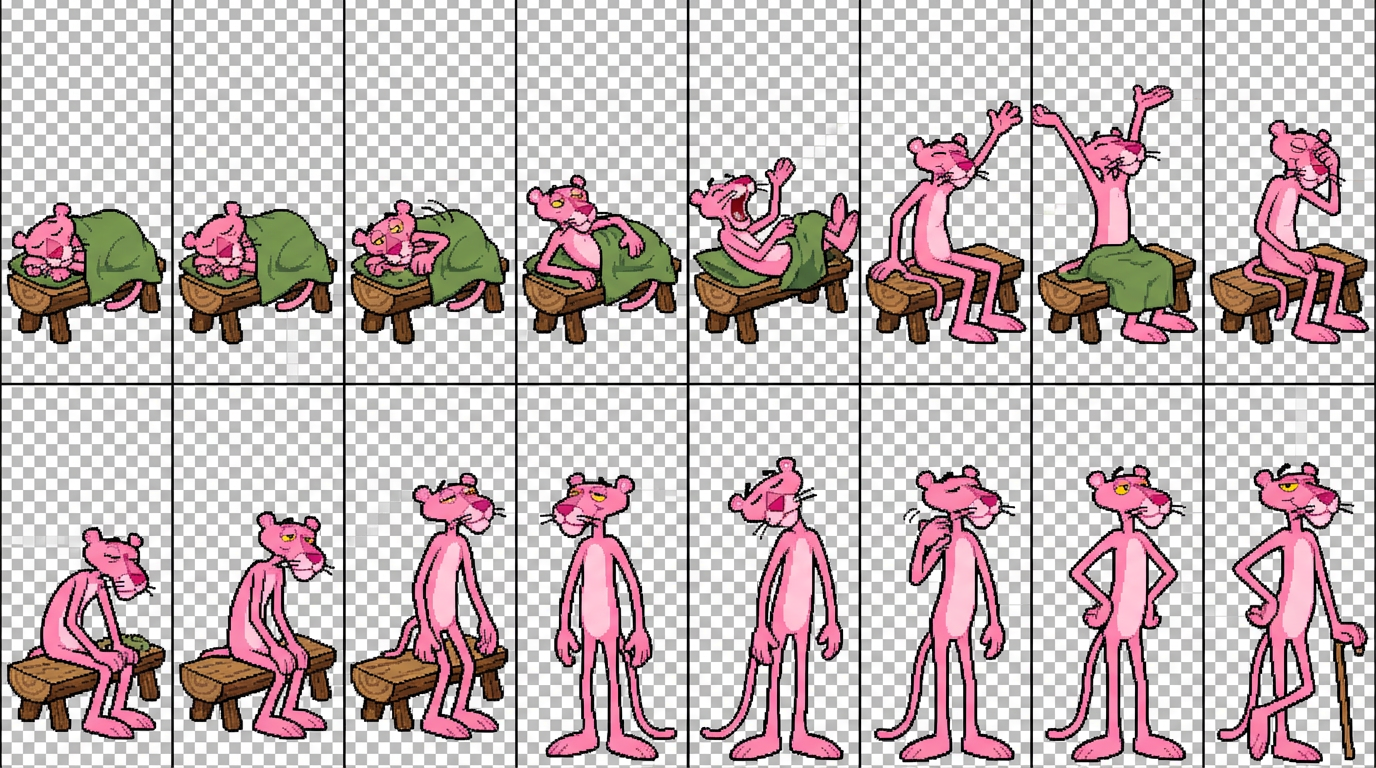
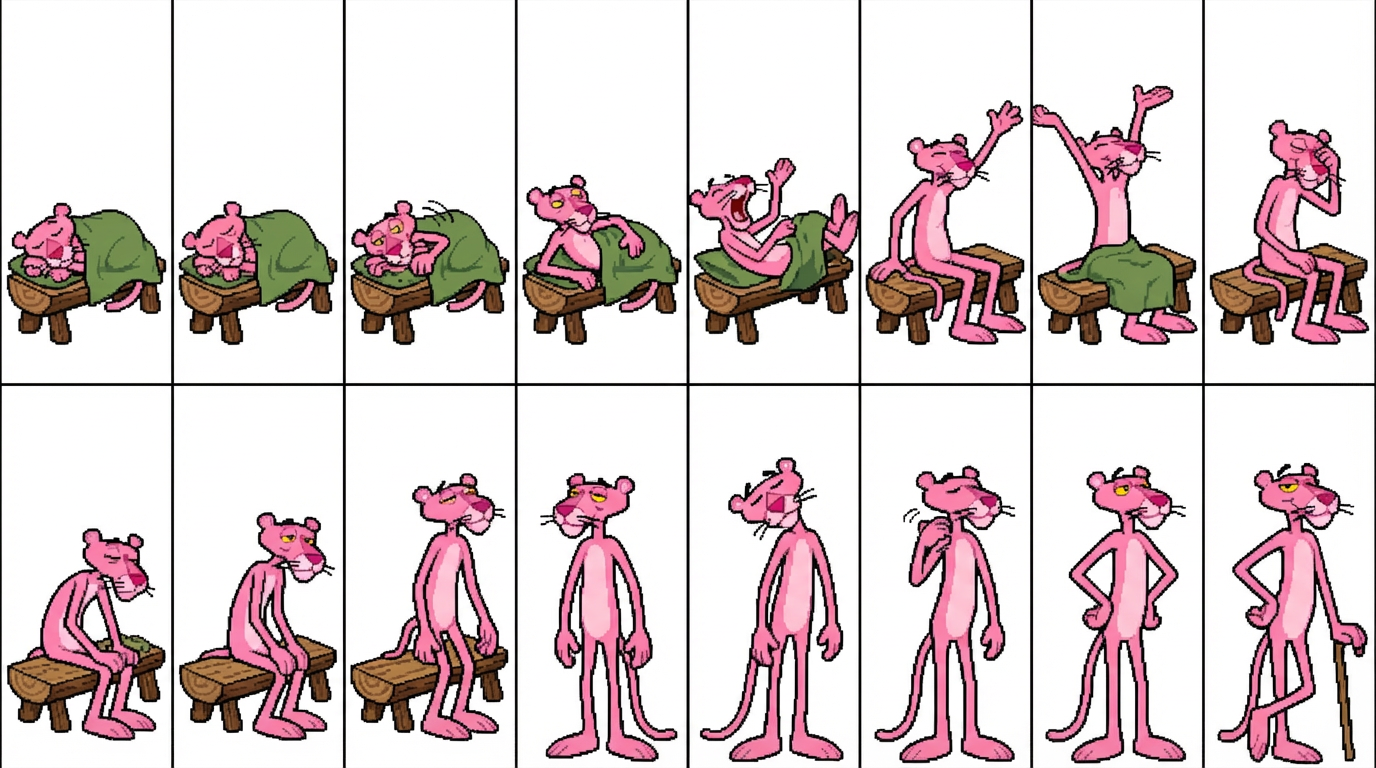
white bg and change folders

diff --git a/game/npc.go b/game/npc.go
@@ -68,9 +68,9 @@ func (n *npc) setStrange(strange bool) {
 }
 
 
-func loadStrangeStrips(renderer *sdl.Renderer, n *npc, idlePath, talkPath string) {
-	idle := loadNPCStrip(renderer, idlePath, 8)
-	talk := loadNPCStrip(renderer, talkPath, 8)
+func loadStrangeGrids(renderer *sdl.Renderer, n *npc, idlePath string, idleCols, idleRows int, talkPath string, talkCols, talkRows int) {
+	idle := loadNPCGrid(renderer, idlePath, idleCols, idleRows)
+	talk := loadNPCGrid(renderer, talkPath, talkCols, talkRows)
 	if len(idle) > 0 {
 		n.strangeIdle = idle
 		n.strangeTalk = talk
@@ -80,11 +80,17 @@ func loadStrangeStrips(renderer *sdl.Renderer, n *npc, idlePath, talkPath string
 // ===== Camp Chilly Wa Wa NPCs =====
 
 func loadNPCStrip(renderer *sdl.Renderer, path string, cols int) []npcFrame {
-	grid := engine.SpriteGridFromPNGRaw(renderer, path, cols, 1)
-	frames := make([]npcFrame, cols)
-	for c := 0; c < cols; c++ {
-		gf := grid[0][c]
-		frames[c] = npcFrame{tex: gf.Tex, w: gf.W, h: gf.H}
+	return loadNPCGrid(renderer, path, cols, 1)
+}
+
+func loadNPCGrid(renderer *sdl.Renderer, path string, cols, rows int) []npcFrame {
+	grid := engine.SpriteGridFromPNG(renderer, path, cols, rows)
+	var frames []npcFrame
+	for r := 0; r < rows; r++ {
+		for c := 0; c < cols; c++ {
+			gf := grid[r][c]
+			frames = append(frames, npcFrame{tex: gf.Tex, w: gf.W, h: gf.H})
+		}
 	}
 	return frames
 }
@@ -123,8 +129,8 @@ var higginsPostWorriedDialog = []dialogEntry{
 
 func newDirectorHiggins(renderer *sdl.Renderer) *npc {
 	return &npc{
-		idleGrid:       loadNPCStrip(renderer, "assets/images/locations/camp/npc/npc_director_higgins_idle.png", 8),
-		talkGrid:       loadNPCStrip(renderer, "assets/images/locations/camp/npc/npc_director_higgins_talk.png", 8),
+		idleGrid:       loadNPCGrid(renderer, "assets/images/locations/camp/npc/higgins/npc_director_higgins_idle.png", 8, 2),
+		talkGrid:       loadNPCGrid(renderer, "assets/images/locations/camp/npc/higgins/npc_director_higgins_talk.png", 4, 2),
 		bounds:         sdl.Rect{X: 700, Y: 400, W: 120, H: 210},
 		name:           "Director Higgins",
 		dialog:         higginsDefaultDialog,
@@ -135,8 +141,8 @@ func newDirectorHiggins(renderer *sdl.Renderer) *npc {
 
 func newOfficeHiggins(renderer *sdl.Renderer) *npc {
 	return &npc{
-		idleGrid:       loadNPCStrip(renderer, "assets/images/locations/camp/npc/npc_director_higgins_office_idle.png", 8),
-		talkGrid:       loadNPCStrip(renderer, "assets/images/locations/camp/npc/npc_director_higgins_office_talk.png", 8),
+		idleGrid:       loadNPCGrid(renderer, "assets/images/locations/camp/npc/higgins/npc_director_higgins_office_idle.png", 4, 2),
+		talkGrid:       loadNPCGrid(renderer, "assets/images/locations/camp/npc/higgins/npc_director_higgins_office_talk.png", 4, 2),
 		bounds:         sdl.Rect{X: 780, Y: 300, W: 120, H: 210},
 		name:           "Director Higgins",
 		dialog:         higginsWorriedDialog,
@@ -178,17 +184,17 @@ var tommyPostStrangeDialog = []dialogEntry{
 
 func newTommy(renderer *sdl.Renderer) *npc {
 	n := &npc{
-		idleGrid:       loadNPCStrip(renderer, "assets/images/locations/camp/npc/npc_homesick_kid_idle.png", 8),
-		talkGrid:       loadNPCStrip(renderer, "assets/images/locations/camp/npc/npc_homesick_kid_talk.png", 8),
+		idleGrid:       loadNPCGrid(renderer, "assets/images/locations/camp/npc/kids/tommy/npc_tommy_idle.png", 8, 2),
+		talkGrid:       loadNPCGrid(renderer, "assets/images/locations/camp/npc/kids/tommy/npc_tommy_talk.png", 4, 2),
 		bounds:         sdl.Rect{X: 140, Y: 400, W: 130, H: 170},
 		name:           "Tommy",
 		dialog:         tommyDialog,
 		bobAmount:      0.3,
 		talkFrameSpeed: 0.12,
 	}
-	loadStrangeStrips(renderer, n,
-		"assets/images/locations/camp/npc/npc_homesick_kid_strange_idle.png",
-		"assets/images/locations/camp/npc/npc_homesick_kid_strange_talk.png")
+	loadStrangeGrids(renderer, n,
+		"assets/images/locations/camp/npc/kids/tommy/npc_tommy_strange_idle.png", 8, 2,
+		"assets/images/locations/camp/npc/kids/tommy/npc_tommy_strange_talk.png", 8, 2)
 	return n
 }
 
@@ -225,17 +231,17 @@ var jakePostStrangeDialog = []dialogEntry{
 
 func newJake(renderer *sdl.Renderer) *npc {
 	n := &npc{
-		idleGrid:       loadNPCStrip(renderer, "assets/images/locations/camp/npc/npc_bully_kid_idle.png", 8),
-		talkGrid:       loadNPCStrip(renderer, "assets/images/locations/camp/npc/npc_bully_kid_talk.png", 8),
+		idleGrid:       loadNPCGrid(renderer, "assets/images/locations/camp/npc/kids/jake/npc_jake_idle.png", 5, 2),
+		talkGrid:       loadNPCGrid(renderer, "assets/images/locations/camp/npc/kids/jake/npc_jake_talk.png", 5, 2),
 		bounds:         sdl.Rect{X: 380, Y: 380, W: 130, H: 185},
 		name:           "Jake",
 		dialog:         jakeDialog,
 		bobAmount:      0.25,
 		talkFrameSpeed: 0.12,
 	}
-	loadStrangeStrips(renderer, n,
-		"assets/images/locations/camp/npc/npc_bully_kid_strange_idle.png",
-		"assets/images/locations/camp/npc/npc_bully_kid_strange_talk.png")
+	loadStrangeGrids(renderer, n,
+		"assets/images/locations/camp/npc/kids/jake/npc_jake_strange_idle.png", 6, 2,
+		"assets/images/locations/camp/npc/kids/jake/npc_jake_strange_talk.png", 8, 2)
 	return n
 }
 
@@ -273,17 +279,17 @@ var lilyPostStrangeDialog = []dialogEntry{
 
 func newLily(renderer *sdl.Renderer) *npc {
 	n := &npc{
-		idleGrid:       loadNPCStrip(renderer, "assets/images/locations/camp/npc/npc_shy_girl_idle.png", 8),
-		talkGrid:       loadNPCStrip(renderer, "assets/images/locations/camp/npc/npc_shy_girl_talk.png", 8),
+		idleGrid:       loadNPCGrid(renderer, "assets/images/locations/camp/npc/kids/lily/npc_lily_idle.png", 8, 2),
+		talkGrid:       loadNPCGrid(renderer, "assets/images/locations/camp/npc/kids/lily/npc_lily_talk.png", 8, 2),
 		bounds:         sdl.Rect{X: 610, Y: 390, W: 120, H: 165},
 		name:           "Lily",
 		dialog:         lilyDialog,
 		bobAmount:      0.15,
 		talkFrameSpeed: 0.12,
 	}
-	loadStrangeStrips(renderer, n,
-		"assets/images/locations/camp/npc/npc_shy_girl_strange_idle.png",
-		"assets/images/locations/camp/npc/npc_shy_girl_strange_talk.png")
+	loadStrangeGrids(renderer, n,
+		"assets/images/locations/camp/npc/kids/lily/npc_lily_strange_idle.png", 8, 2,
+		"assets/images/locations/camp/npc/kids/lily/npc_lily_strange_talk.png", 8, 2)
 	return n
 }
 
@@ -323,17 +329,17 @@ var marcusPostStrangeDialog = []dialogEntry{
 
 func newMarcus(renderer *sdl.Renderer) *npc {
 	n := &npc{
-		idleGrid:       loadNPCStrip(renderer, "assets/images/locations/camp/npc/npc_know_it_all_idle.png", 8),
-		talkGrid:       loadNPCStrip(renderer, "assets/images/locations/camp/npc/npc_know_it_all_talk.png", 8),
+		idleGrid:       loadNPCGrid(renderer, "assets/images/locations/camp/npc/kids/marcus/npc_marcus_idle.png", 7, 2),
+		talkGrid:       loadNPCGrid(renderer, "assets/images/locations/camp/npc/kids/marcus/npc_marcus_talk.png", 8, 2),
 		bounds:         sdl.Rect{X: 900, Y: 370, W: 130, H: 190},
 		name:           "Marcus",
 		dialog:         marcusDialog,
 		bobAmount:      0.2,
 		talkFrameSpeed: 0.12,
 	}
-	loadStrangeStrips(renderer, n,
-		"assets/images/locations/camp/npc/npc_know_it_all_strange_idle.png",
-		"assets/images/locations/camp/npc/npc_know_it_all_strange_talk.png")
+	loadStrangeGrids(renderer, n,
+		"assets/images/locations/camp/npc/kids/marcus/npc_marcus_strange_idle.png", 8, 2,
+		"assets/images/locations/camp/npc/kids/marcus/npc_marcus_strange_talk.png", 8, 2)
 	return n
 }
 
@@ -371,17 +377,17 @@ var dannyPostStrangeDialog = []dialogEntry{
 
 func newDanny(renderer *sdl.Renderer) *npc {
 	n := &npc{
-		idleGrid:       loadNPCStrip(renderer, "assets/images/locations/camp/npc/npc_prankster_idle.png", 8),
-		talkGrid:       loadNPCStrip(renderer, "assets/images/locations/camp/npc/npc_prankster_talk.png", 8),
-		bounds:         sdl.Rect{X: 1170, Y: 380, W: 130, H: 185},
+		idleGrid:       loadNPCGrid(renderer, "assets/images/locations/camp/npc/kids/danny/npc_danny_idle.png", 8, 2),
+		talkGrid:       loadNPCGrid(renderer, "assets/images/locations/camp/npc/kids/danny/npc_danny_talk.png", 8, 2),
+		bounds:         sdl.Rect{X: 1120, Y: 380, W: 130, H: 185},
 		name:           "Danny",
 		dialog:         dannyDialog,
 		bobAmount:      0.3,
 		talkFrameSpeed: 0.12,
 	}
-	loadStrangeStrips(renderer, n,
-		"assets/images/locations/camp/npc/npc_prankster_strange_idle.png",
-		"assets/images/locations/camp/npc/npc_prankster_strange_talk.png")
+	loadStrangeGrids(renderer, n,
+		"assets/images/locations/camp/npc/kids/danny/npc_danny_strange_idle.png", 8, 2,
+		"assets/images/locations/camp/npc/kids/danny/npc_danny_strange_talk.png", 8, 2)
 	return n
 }
 
@@ -499,8 +505,8 @@ var frenchGuidePostDialog = []dialogEntry{
 
 func newFrenchGuide(renderer *sdl.Renderer) *npc {
 	return &npc{
-		idleGrid:       loadNPCStrip(renderer, "assets/images/locations/paris/npc/npc_french_guide_idle.png", 8),
-		talkGrid:       loadNPCStrip(renderer, "assets/images/locations/paris/npc/npc_french_guide_talk.png", 8),
+		idleGrid:       loadNPCGrid(renderer, "assets/images/locations/paris/npc/npc_french_guide_idle.png", 8, 2),
+		talkGrid:       loadNPCGrid(renderer, "assets/images/locations/paris/npc/npc_french_guide_talk.png", 4, 2),
 		bounds:         sdl.Rect{X: 300, Y: 350, W: 140, H: 240},
 		name:           "Madame Colette",
 		dialog:         frenchGuideDialog,
@@ -534,8 +540,8 @@ var museumCuratorPostDialog = []dialogEntry{
 
 func newMuseumCurator(renderer *sdl.Renderer) *npc {
 	return &npc{
-		idleGrid:       loadNPCStrip(renderer, "assets/images/locations/paris/npc/npc_museum_curator_idle.png", 8),
-		talkGrid:       loadNPCStrip(renderer, "assets/images/locations/paris/npc/npc_museum_curator_talk.png", 8),
+		idleGrid:       loadNPCGrid(renderer, "assets/images/locations/paris/npc/npc_museum_curator_idle.png", 8, 2),
+		talkGrid:       loadNPCGrid(renderer, "assets/images/locations/paris/npc/npc_museum_curator_talk.png", 5, 2),
 		bounds:         sdl.Rect{X: 500, Y: 320, W: 130, H: 250},
 		name:           "Curator Beaumont",
 		dialog:         museumCuratorDialog,

diff --git a/game/scene.go b/game/scene.go
@@ -225,7 +225,7 @@ func newSceneManager(renderer *sdl.Renderer) *sceneManager {
 			{900, 480, 1200, 500},
 			{620, 520, 650, 650},
 			{120, 480, 50, 500},
-			{1200, 500, 1350, 520},
+			{1200, 500, 1400, 520},
 		},
 		hotspots: []hotspot{
 			{
@@ -241,34 +241,34 @@ func newSceneManager(renderer *sdl.Renderer) *sceneManager {
 				arrow:       arrowRight,
 			},
 			{
-				bounds:      sdl.Rect{X: 70, Y: 340, W: 120, H: 100},
+				bounds:      sdl.Rect{X: 70, Y: 370, W: 120, H: 120},
 				targetScene: "tommy_room",
 				name:        "Tommy's Cabin",
-				arrow:       arrowUp,
+				arrow:       arrowNone,
 			},
 			{
-				bounds:      sdl.Rect{X: 320, Y: 310, W: 120, H: 100},
+				bounds:      sdl.Rect{X: 320, Y: 350, W: 120, H: 120},
 				targetScene: "jake_room",
 				name:        "Jake's Cabin",
-				arrow:       arrowUp,
+				arrow:       arrowNone,
 			},
 			{
-				bounds:      sdl.Rect{X: 560, Y: 290, W: 120, H: 100},
+				bounds:      sdl.Rect{X: 560, Y: 340, W: 120, H: 120},
 				targetScene: "lily_room",
 				name:        "Lily's Cabin",
-				arrow:       arrowUp,
+				arrow:       arrowNone,
 			},
 			{
-				bounds:      sdl.Rect{X: 860, Y: 310, W: 120, H: 100},
+				bounds:      sdl.Rect{X: 860, Y: 350, W: 120, H: 120},
 				targetScene: "marcus_room",
 				name:        "Marcus's Cabin",
-				arrow:       arrowUp,
+				arrow:       arrowNone,
 			},
 			{
-				bounds:      sdl.Rect{X: 1160, Y: 340, W: 120, H: 100},
+				bounds:      sdl.Rect{X: 1160, Y: 370, W: 120, H: 120},
 				targetScene: "danny_room",
 				name:        "Danny's Cabin",
-				arrow:       arrowUp,
+				arrow:       arrowNone,
 			},
 		},
 	}

diff --git a/game/game.go b/game/game.go
@@ -107,11 +107,12 @@ func New(renderer *sdl.Renderer, font *engine.BitmapFont) *Game {
 		}
 	}
 
-	// Load campfire animation (8 frames, single row)
-	fireGrid := engine.SpriteGridFromPNGRaw(renderer, "assets/images/locations/camp/campfire_idle.png", 8, 1)
-	for c := 0; c < 8; c++ {
-		gf := fireGrid[0][c]
-		g.campfireFrames = append(g.campfireFrames, npcFrame{tex: gf.Tex, w: gf.W, h: gf.H})
+	fireGrid := engine.SpriteGridFromPNGRaw(renderer, "assets/images/locations/camp/campfire_idle.png", 8, 4)
+	for r := 0; r < len(fireGrid); r++ {
+		for c := 0; c < len(fireGrid[r]); c++ {
+			gf := fireGrid[r][c]
+			g.campfireFrames = append(g.campfireFrames, npcFrame{tex: gf.Tex, w: gf.W, h: gf.H})
+		}
 	}
 
 	g.marcusRoomNightBg = newPNGBackground(renderer, "assets/images/locations/camp/background/marcus_room_night.png")
@@ -626,7 +627,7 @@ func (g *Game) Update(dt float64, mx, my int32) {
 		})
 	}
 
-	if !g.nightSceneDone && g.sceneMgr.currentName == "marcus_room" && !g.sceneMgr.transitioning && !g.dialog.active {
+	if !g.nightSceneDone && g.metKids >= 5 && g.sceneMgr.currentName == "marcus_room" && !g.sceneMgr.transitioning && !g.dialog.active {
 		g.nightSceneArrival()
 	}
 

diff --git a/FIXME.md b/FIXME.md
@@ -54,3 +54,39 @@ When fixed, move to the **Resolved** section with the date.
 - [x] `[P1]` PP sleeping sprite showed in Marcus room + freakout dialog didn't auto-start — FIXED: sleeping sprite hidden during Marcus phase, dialog trigger fixed with flag
 - [x] `[P2]` No Higgins visible on camp_grounds during bedtime — FIXED: Higgins NPC now spawns on camp_grounds for bedtime dialog, removed after
 - [ ] `[P3]` Camp night background looks too big/zoomed — this is an asset issue (the camp_night.png image itself). Regenerate the image at correct proportions or crop it
+
+### Reported-plan mod
+- [x] `[P1]` NPC sprite grid formats were wrong (code loaded as 15x1, actual sprites vary) — FIXED: updated all NPC loading to use correct cols x rows per sprite. Added `loadNPCGrid` function.
+- [x] `[P2]` Cabin arrows sent PP walking off-screen — FIXED: changed cabin hotspots from `arrowUp` to `arrowNone`, moved bounds to door area (Y:340-430). PP now walks to cabin door then transitions.
+- [x] `[P3]` Danny overlapped with Higgins office arrow — FIXED: moved Danny NPC bounds left (X:1170 → X:1120) for more clearance.
+- [ ] `[P4]` Airplane full idle: need sprite of small airplane with PP head visible in window, 1x10 strip, plane bobs up/down and propeller spins
+- [ ] `[P5]` Background removal losing colors — magenta chroma key didn't work with AI tool
+
+### Reported-plan mod (batch 2)
+- [x] `[P1]` Can't reach Higgins office on Day 2 — FIXED: extended walk path to X:1400
+- [x] `[P1]` Marcus room triggers night scene early — FIXED: added `metKids >= 5` guard to night trigger
+- [x] `[P1]` NPC sprites multi-row — already fixed (loadNPCGrid supports any cols x rows)
+- [x] `[P1]` Gray/black background around NPCs — FIXED: switched to SpriteGridFromPNG (auto color-key removal)
+- [x] `[P1]` Rearrange NPC files to folders — DONE: `npc/higgins/`, `npc/kids/{marcus,tommy,jake,lily,danny}/`
+
+### Reported
+- [ ] `[P0]` write in plan mode!
+- [ ] `[P0]` check what we can improve in our game, regarding dynamic and movement. check until reaching to paris.also check if we can use a better technology for our game
+- [ ] `[P1]` we need to change every object to be with white background. some of the picture are 4 frames in two line. so i want one same format for everyone.
+             now you will give me a spesific promt for everny npc include the pp. that will be 8 frames in one line in same square size.
+             higgins needs idle,talking,moving,shouting(like commander ATTENTION!!!),and also working from desk
+             pp need walk front,walk back,walking right/left ,talking,picking up flower and idle. also give me a prompt for a big airplaine the the pp is sit in the back and in the cockpit there is a pilot talking care of the airplane.
+             every kid need idle,talking and also freaking out idle and talking 
+- [ ] `[P1]` idle that you moved to folder removed from the npc folder 
+
+### Reported
+- [ ] `[P0]` write in plan mode!  
+- [ ] `[P2]` in pp_sleeping animation  use only the first row 
+- [ ] `[P2]` in the top of the screen we can remove to line of click and walk. i want only the cords to stay for now, its important when we need to change the clicks and arrows
+- [ ] `[P1]` - in the first screen i need the pp to talk when he said the first sentences.
+             - can we change to rooms to be with open door? then i want the pp to make it like he is going out of the door.
+             - in the first screen after we click on the top arrow, i want to see the pp walking back and after a second or two to change the screen to the camp
+             - in order to talk to lily, we need to get a flower from the lake. change the story as well if needed. first we will try to talk to her, the higgings will arrived and said that she is shy so you need to find another way in order to talk. then in the lake sceen put a flower the we need to get. going back to the camp, from the inventory get out the flower and then we can see the conversation.
+- [ ] `[P1]` make sure in the map the landmarks are places in the right place. the map will be always available to open, so what we will do is when the user open the map, each city that he will press(that we not going to fly to), a popup will load with some data on the city.    
+- [ ] `[P1]` i want to be able click on each door and get inside, for higgins office lets use the road down right.
+- [ ] `[P2]` we made alot of changes in frames. check the code and remove uneeded parts
